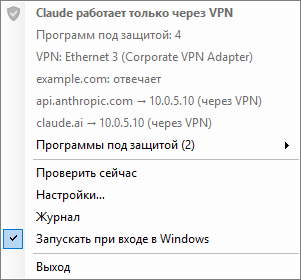
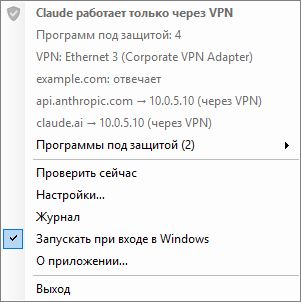
Добавлен пункт «О приложении» в меню трея и история версий, версия 1.1

diff --git a/src/AboutForm.cs b/src/AboutForm.cs
@@ -1,0 +1,97 @@
+using System;
+using System.Diagnostics;
+using System.Drawing;
+using System.Reflection;
+using System.Windows.Forms;
+
+namespace ClaudeVpnGuard
+{
+    internal sealed class AboutForm : Form
+    {
+        private const string GitHubUrl = "https://github.com/aokazantsev/ClaudeVpnGuard";
+        private const string SiteUrl = "https://aokazantsev.ru/pets/claudevpnguard/";
+        private const string ChangelogUrl = GitHubUrl + "/blob/main/CHANGELOG.md";
+        private const string ReleasesUrl = GitHubUrl + "/releases/latest";
+
+        private static AboutForm openForm;
+
+        public static void ShowSingle()
+        {
+            if (openForm != null)
+            {
+                openForm.Activate();
+                return;
+            }
+            openForm = new AboutForm();
+            openForm.FormClosed += (sender, e) => openForm = null;
+            openForm.Show();
+        }
+
+        private AboutForm()
+        {
+            Assembly assembly = Assembly.GetExecutingAssembly();
+            string product = Attribute<AssemblyProductAttribute>(assembly, a => a.Product, "ClaudeVpnGuard");
+            string version = Attribute<AssemblyInformationalVersionAttribute>(assembly, a => a.InformationalVersion, assembly.GetName().Version.ToString());
+            string description = Attribute<AssemblyDescriptionAttribute>(assembly, a => a.Description, "");
+            string copyright = Attribute<AssemblyCopyrightAttribute>(assembly, a => a.Copyright, "");
+
+            Text = "О приложении " + product;
+            FormBorderStyle = FormBorderStyle.FixedDialog;
+            MaximizeBox = false;
+            MinimizeBox = false;
+            StartPosition = FormStartPosition.CenterScreen;
+            AutoScaleMode = AutoScaleMode.Dpi;
+            Font = SystemFonts.MessageBoxFont;
+            AutoSize = true;
+            AutoSizeMode = AutoSizeMode.GrowAndShrink;
+            Icon appIcon = Icon.ExtractAssociatedIcon(Application.ExecutablePath);
+            Icon = appIcon;
+
+            var layout = new TableLayoutPanel { AutoSize = true, ColumnCount = 2, Padding = new Padding(16), Dock = DockStyle.Fill };
+            layout.ColumnStyles.Add(new ColumnStyle(SizeType.AutoSize));
+            layout.ColumnStyles.Add(new ColumnStyle(SizeType.AutoSize));
+            Controls.Add(layout);
+
+            var picture = new PictureBox
+            {
+                Image = new Icon(appIcon, 48, 48).ToBitmap(),
+                SizeMode = PictureBoxSizeMode.Zoom,
+                Size = new Size(48, 48),
+                Margin = new Padding(0, 0, 16, 0)
+            };
+            layout.Controls.Add(picture, 0, 0);
+            layout.SetRowSpan(picture, 8);
+
+            var title = new Label { Text = product, AutoSize = true, Font = new Font(Font.FontFamily, Font.Size * 1.5f, FontStyle.Bold) };
+            layout.Controls.Add(title, 1, 0);
+            layout.Controls.Add(new Label { Text = "Версия " + version, AutoSize = true, Margin = new Padding(3, 2, 3, 8) }, 1, 1);
+            layout.Controls.Add(new Label { Text = description, AutoSize = true, MaximumSize = new Size(360, 0), Margin = new Padding(3, 0, 3, 12) }, 1, 2);
+            layout.Controls.Add(Link("Страница на сайте", SiteUrl), 1, 3);
+            layout.Controls.Add(Link("Исходники на GitHub", GitHubUrl), 1, 4);
+            layout.Controls.Add(Link("История версий", ChangelogUrl), 1, 5);
+            layout.Controls.Add(Link("Последняя версия", ReleasesUrl), 1, 6);
+            layout.Controls.Add(new Label { Text = copyright, AutoSize = true, ForeColor = SystemColors.GrayText, Margin = new Padding(3, 12, 3, 12) }, 1, 7);
+
+            var close = new Button { Text = "Закрыть", AutoSize = true, Anchor = AnchorStyles.Right, DialogResult = DialogResult.OK };
+            close.Click += (sender, e) => Close();
+            layout.Controls.Add(close, 1, 8);
+            AcceptButton = close;
+            CancelButton = close;
+        }
+
+        private static LinkLabel Link(string text, string url)
+        {
+            var link = new LinkLabel { Text = text, AutoSize = true, Margin = new Padding(3, 2, 3, 2) };
+            link.LinkClicked += (sender, e) => Process.Start(new ProcessStartInfo(url) { UseShellExecute = true });
+            return link;
+        }
+
+        private static string Attribute<T>(Assembly assembly, Func<T, string> read, string fallback) where T : Attribute
+        {
+            object[] found = assembly.GetCustomAttributes(typeof(T), false);
+            if (found.Length == 0) return fallback;
+            string value = read((T)found[0]);
+            return string.IsNullOrEmpty(value) ? fallback : value;
+        }
+    }
+}

diff --git a/installer/setup/AssemblyInfo.cs b/installer/setup/AssemblyInfo.cs
@@ -6,7 +6,7 @@ using System.Runtime.InteropServices;
 [assembly: AssemblyCompany("aokazantsev")]
 [assembly: AssemblyProduct("ClaudeVpnGuard")]
 [assembly: AssemblyCopyright("Copyright (c) 2026 aokazantsev. MIT License")]
-[assembly: AssemblyVersion("1.0.0.0")]
-[assembly: AssemblyFileVersion("1.0.0.0")]
-[assembly: AssemblyInformationalVersion("1.0")]
+[assembly: AssemblyVersion("1.1.0.0")]
+[assembly: AssemblyFileVersion("1.1.0.0")]
+[assembly: AssemblyInformationalVersion("1.1")]
 [assembly: ComVisible(false)]

diff --git a/installer/uninstall/AssemblyInfo.cs b/installer/uninstall/AssemblyInfo.cs
@@ -6,7 +6,7 @@ using System.Runtime.InteropServices;
 [assembly: AssemblyCompany("aokazantsev")]
 [assembly: AssemblyProduct("ClaudeVpnGuard")]
 [assembly: AssemblyCopyright("Copyright (c) 2026 aokazantsev. MIT License")]
-[assembly: AssemblyVersion("1.0.0.0")]
-[assembly: AssemblyFileVersion("1.0.0.0")]
-[assembly: AssemblyInformationalVersion("1.0")]
+[assembly: AssemblyVersion("1.1.0.0")]
+[assembly: AssemblyFileVersion("1.1.0.0")]
+[assembly: AssemblyInformationalVersion("1.1")]
 [assembly: ComVisible(false)]

diff --git a/src/AssemblyInfo.cs b/src/AssemblyInfo.cs
@@ -6,7 +6,7 @@ using System.Runtime.InteropServices;
 [assembly: AssemblyCompany("aokazantsev")]
 [assembly: AssemblyProduct("ClaudeVpnGuard")]
 [assembly: AssemblyCopyright("Copyright (c) 2026 aokazantsev. MIT License")]
-[assembly: AssemblyVersion("1.0.0.0")]
-[assembly: AssemblyFileVersion("1.0.0.0")]
-[assembly: AssemblyInformationalVersion("1.0")]
+[assembly: AssemblyVersion("1.1.0.0")]
+[assembly: AssemblyFileVersion("1.1.0.0")]
+[assembly: AssemblyInformationalVersion("1.1")]
 [assembly: ComVisible(false)]

diff --git a/src/TrayMenu.cs b/src/TrayMenu.cs
@@ -32,6 +32,7 @@ namespace ClaudeVpnGuard
             var startup = new ToolStripMenuItem("Запускать при входе в Windows") { Checked = startupEnabled };
             startup.Click += (s, a) => toggleStartup(!startup.Checked);
             menu.Items.Add(startup);
+            menu.Items.Add("О приложении…", null, (s, a) => AboutForm.ShowSingle());
             menu.Items.Add(new ToolStripSeparator());
             menu.Items.Add("Выход", null, (s, a) => exit());
         }

diff --git a/src/AppIdentity.cs b/src/AppIdentity.cs
@@ -6,7 +6,7 @@ namespace ClaudeVpnGuard
     internal static class AppIdentity
     {
         public const string Name = "ClaudeVpnGuard";
-        public const string Version = "1.0";
+        public const string Version = "1.1";
         public const string ExecutableName = "ClaudeVpnGuard.exe";
         public const string ProcessName = "ClaudeVpnGuard";
         public const string UninstallerName = "Uninstall.exe";

diff --git a/CHANGELOG.md b/CHANGELOG.md
@@ -1,0 +1,23 @@
+# История версий ClaudeVpnGuard
+
+Актуальная версия — в [Releases](../../releases/latest).
+
+## 1.1 — 06.10.2026
+
+- В меню трея появился пункт «О приложении»: версия, ссылки на страницу на сайте, исходники,
+  историю версий и последнюю версию.
+
+## 1.0 — 06.10.2026
+
+Первая версия.
+
+- Правило брандмауэра на каждую программу Claude: исходящие соединения разрешены только через
+  адаптер VPN.
+- Адреса Claude закрепляются в hosts за адресами из DNS VPN; без VPN имена Claude не уходят к
+  провайдеру.
+- Сторож: берёт под защиту новые версии Claude, восстанавливает правила и hosts, закрывает
+  соединения Claude мимо VPN.
+- Значок-щит в трее с подробностями и уведомлениями, окно настроек.
+- Установщик с файлом настроек для команды, деинсталлятор снимает защиту целиком.
+- Установщик пересобран в тот же день: добавлены сведения о версии и авторе — без них Защитник
+  Windows ложно срабатывал на файл.
